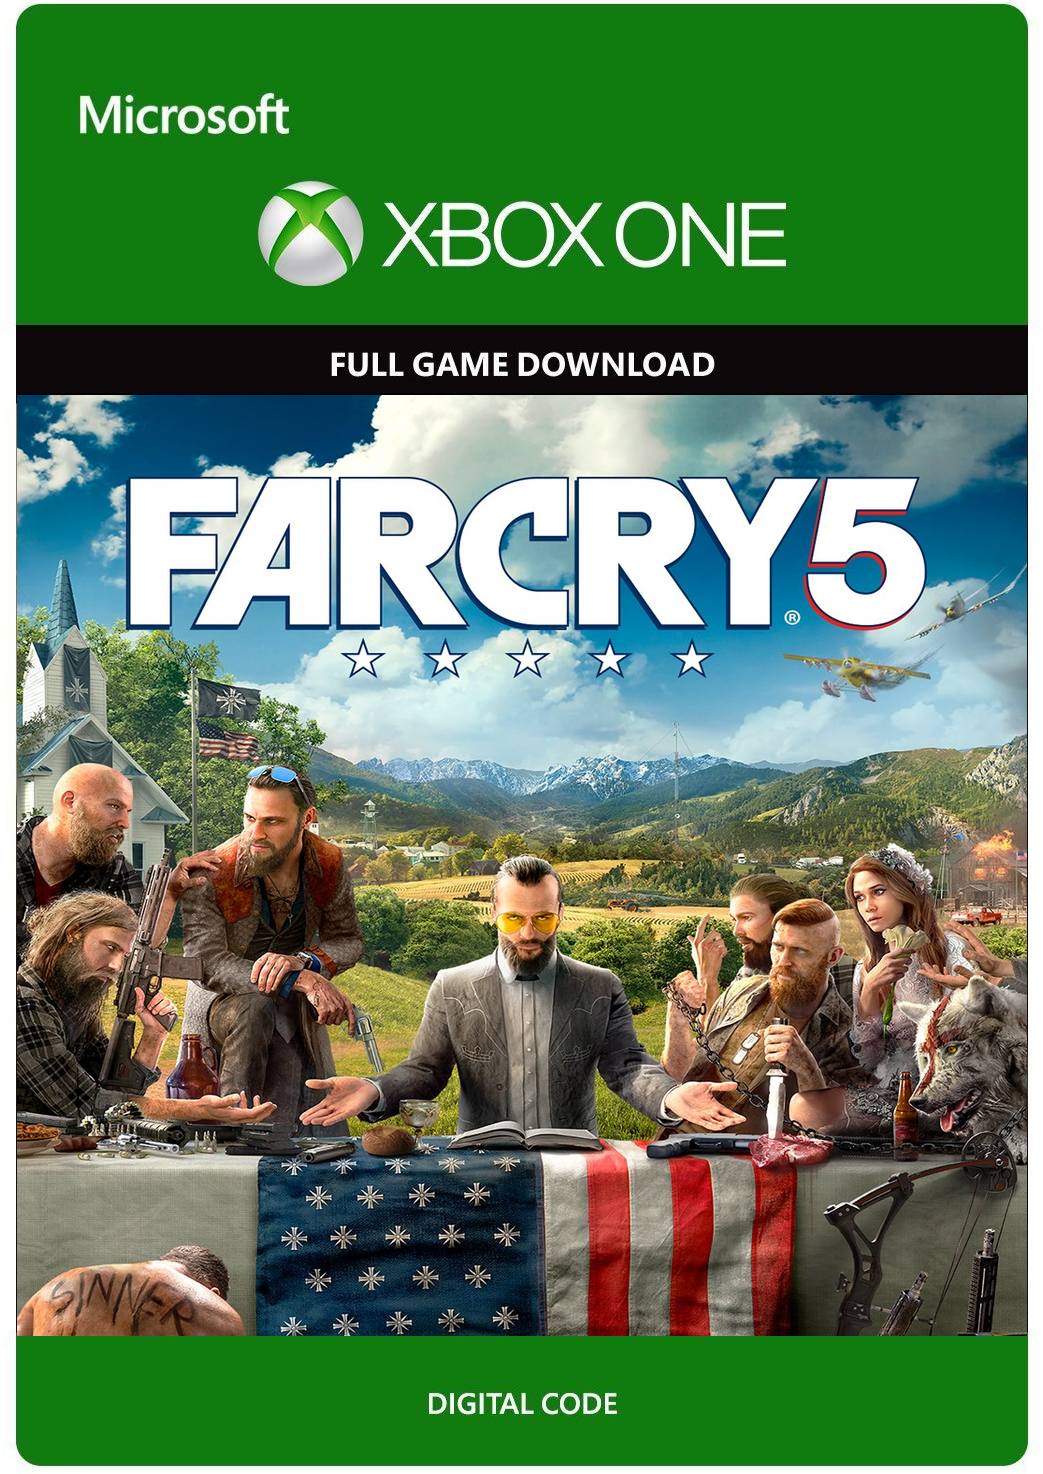
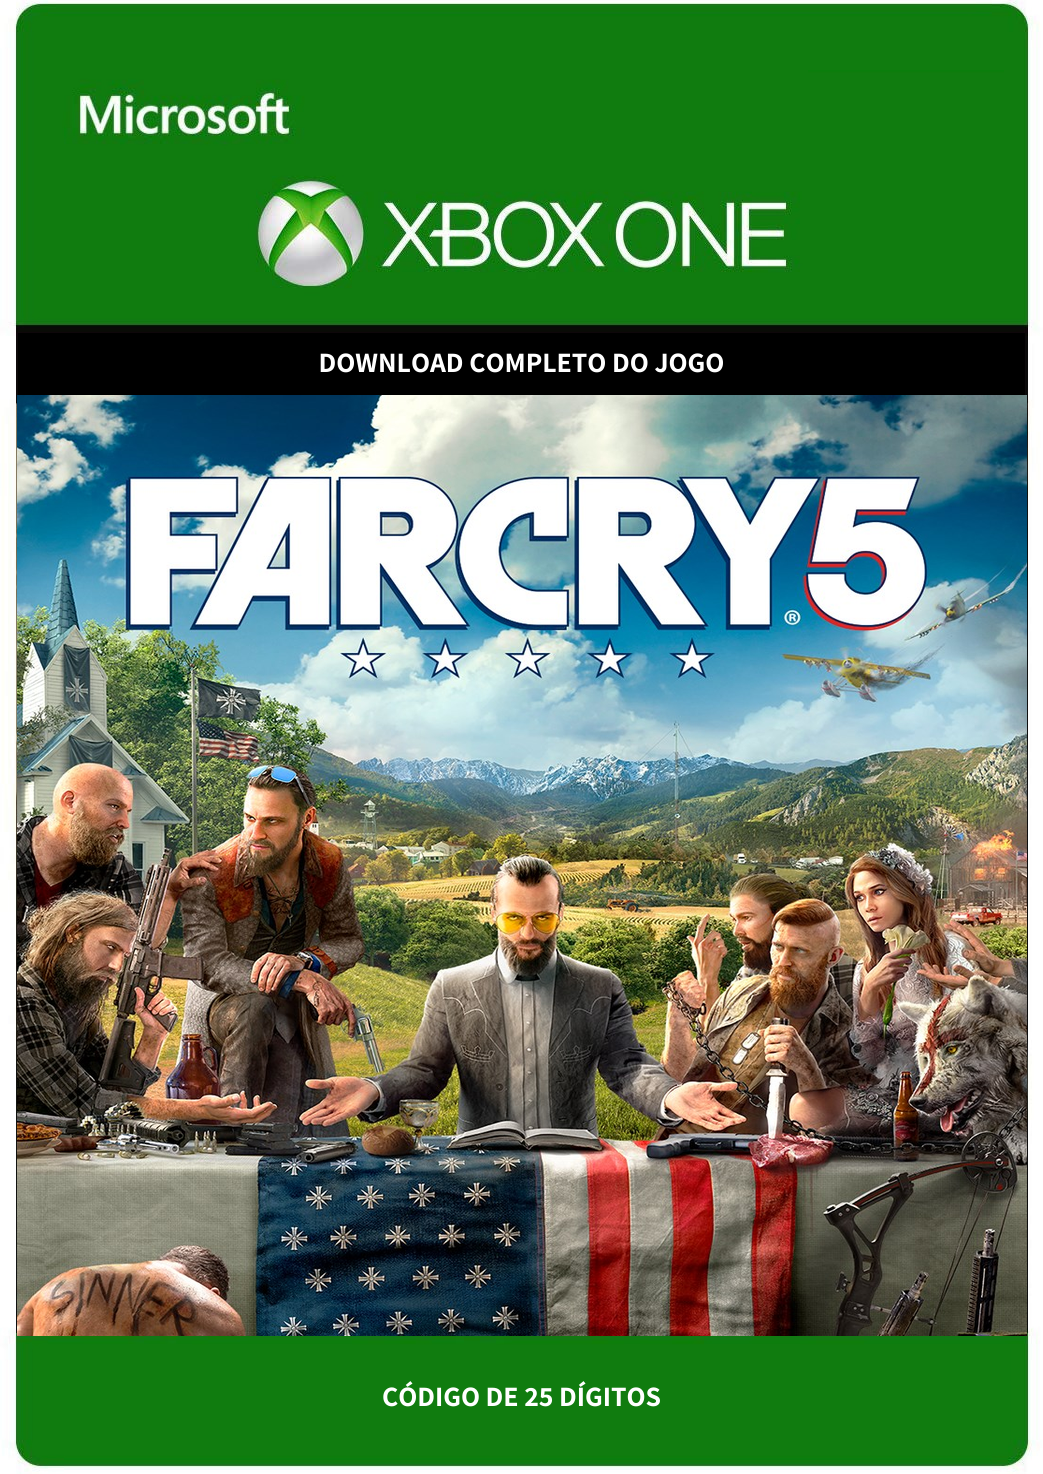
deploy imagem BR7X7MVBBQKM

Changed region(s): [[0.3068, 0.2185, 0.7057, 0.2809], [0.3682, 0.9362, 0.6443, 0.9674]]

diff --git a/description/BR7X7MVBBQKM.html b/description/BR7X7MVBBQKM.html
@@ -1,13 +1,65 @@
 <p style="font-family: 'Poppins', sans-serif; font-size: 1rem; color:gray">
-    Far Cry 5 (Mídia Digital) Xbox One<br>
-    Publicado por :Ubisoft<br>
-    Desenvolvido por :Ubisoft Montreal<br>
-    Data de lançamento :27/03/2018<br>
-    Tamanho aproximado :46,44 GB<br>
-    Classificação etária :Para maiores de 18 anos<br>
-    Categoria :Jogos de tiros<br>
-    <br>
-    Far Cry chega aos Estados Unidos da América no jogo mais recente da franquia premiada.<br>
-    <br>
-    Hope County, Montana, foi tomada por um culto apocalíptico fanático – O Projeto em Eden’s Gate. Após sua chegada, você deve acender os fogos da resistência para liberar a comunidade. Atice as chamas da resistência e lute para livrar Hope County das mãos de um culto mortal. Cuidado com a ira de Joseph Seed e os seguidores do seu culto enquanto você ajuda a resistência no interior da América. Explore Hope County e descubra o interior de Montana, sua vida selvagem e seus habitantes nesse mundo aberto emocionante. Jogue do seu jeito. Construa seu personagem, faça seus próprios aliados e veja como o mundo muda enquanto você progride.<br>
+<iframe width="460" height="215" src="https://www.youtube.com/embed/kd7VJjtoRZI" title="YouTube video player" frameborder="0" allow="accelerometer; autoplay; clipboard-write; encrypted-media; gyroscope; picture-in-picture" allowfullscreen></iframe>
+<br><br>
+INFORMAÇÕES SOBRE O PRODUTO<br>
+===============================================<br>
+<br>
+Far Cry 5 (25 dígitos) Xbox One
+<br>Publicado por : Ubisoft
+<br>Desenvolvido por : Ubisoft Montreal
+<br>Data de lançamento : 27/03/2018
+<br>Classificação etária : Para maiores de 18 anos
+<br>Categoria : Jogos de tiros
+<br>Recursos: Multijogador online  (2-12), Cooperação online  (2), HDR10, 4K Ultra HD, Xbox One X Aprimorado
+
+<br>Far Cry chega aos Estados Unidos da América no jogo mais recente da franquia premiada.
+
+Hope County, Montana, foi tomada por um culto apocalíptico fanático – O Projeto em Eden’s Gate. Apos sua chegada, você deve acender os fogos da resistência para liberar a comunidade. Atice as chamas da resistência e lute para livrar Hope County das mãos de um culto mortal. Cuidado com a ira de Joseph Seed e os seguidores do seu culto enquanto você ajuda a resistência no interior da América. Explore Hope County e descubra o interior de Montana, sua vida selvagem e seus habitantes nesse mundo aberto emocionante. Jogue do seu jeito. Construa seu personagem, faça seus proprios aliados e veja como o mundo muda enquanto você progride.<br>
+<br>
+Fonte: Microsoft<br>
+<br>
+<br>
+INFORMAÇÕES SOBRE O ANÚNCIO<br>
+===============================================<br>
+<br>
+- É um código de 25 dígitos único, exclusivo, nunca utilizado, que vai lhe dá o direito de resgatar o Jogo via Download;<br>
+- Após o resgate você pode instalar/desinstalar/reinstalar/jogar quantas vezes quiser e quando quiser;<br>
+- É um produto digital não é um disco físico, ou seja, não existe envio por correios;<br>
+- Quando finalizar o pagamento entre em contato via whatsapp com informações para confirmação do pagamento e recebimento do código do seu jogo;<br>
+- Após resgatar o Jogo ele fica registrado permanentemente em sua conta, não poderá ser transferido para outra pessoa;<br>
+- É preciso ter uma conta microsoft previamente criada e internet para fazer o resgate e download do Jogo;<br>
+- O Serviço da Xbox Live precisa estar ativo no momento do resgate, consulte antes;<br>
+- Jogos que tem multiplayer online você vai precisar ter assinatura Xbox Live Gold para jogar e isso é vendido separadamente;<br>
+- Jogos que não possuem multiplayer você vai poder jogar conectado ou desconectado da internet, sem se preocupar com banimento;<br>
+- Qualquer dúvida ou dificuldade nós forneceremos TODO o suporte necessário, nós ligamos pra você se você achar necessário;<br>
+<br>
+<br>
+COMO RESGATAR UM CÓDIGO DE 25 DÍGITOS PELO NAVEGADOR<br>
+===============================================<br>
+<br>
+- Acesse o site de resgate de jogos da microsoft logado com a conta microsoft que deseja resgatar o Jogo;<br>
+- Digite o código de 25 dígitos no campo solicitado e clique em AVANÇAR;<br>
+- Será exibido uma imagem do Jogo e clicando em CONFIRMAR o Jogo é resgatado na sua conta;<br>
+<br>
+<br>
+COMO RESGATAR UM CÓDIGO DE 25 DÍGITOS NO VIDEOGAME<br>
+===============================================<br>
+<br>
+- Acesse o videogame usando a conta microsoft que deseja resgatar o Jogo;<br>
+- Vá até STORE e clique no botão USAR UM CÓDIGO;<br>
+- Digite o código de 25 dígitos no campo solicitado e clique em AVANÇAR;<br>
+- Será exibido uma imagem do Jogo e clicando em CONFIRMAR o Jogo é resgatado na sua conta;<br>
+<br>
+<br>
+POLÍTICA DE DEVOLUÇÃO E REEMBOLSO<br>
+===============================================<br>
+<br>
+- Todos os códigos dos produtos que comercializamos são 100% digitais, originais, únicos e exclusivos. Isso nós garantimos pra você!;<br>
+- Nós não temos o poder de inutilizar o código em caso de desistência e qualquer pessoa que tenha ciência do código pode realizar o resgate do jogo;<br>
+- Por estes motivos nós não podemos realizar a devolução e nem reembolso de um produto digital;<br>
+- Antes de realizar a sua compra, nós recomendamos que tenha certeza de que o produto que esta comprando é o que realmente deseja;<br>
+- Recomendamos que antes de comprar consulte o video que disponibilizamos no anúncio, opinião de amigos ou opinião especializada;<br>
+- Realizando o pagamento via pix você concorda com todos os termos aqui descritos.<br>
+<br>
+<br>
 </p>

diff --git a/loja.html b/loja.html
@@ -202,7 +202,7 @@
                             <input type="hidden" id="CODIGO_BR7X7MVBBQKM" value="BR7X7MVBBQKM">
                             <img src="img/produtos/BR7X7MVBBQKM.png" alt="" width="200" height="100">
                             <h5 id="JOGO_BR7X7MVBBQKM">Far Cry 5 - Xbox One</h5>
-                            <h6 id="VALOR_BR7X7MVBBQKM"><span style="color:green">R$ 120,00</span></h6>
+                            <h6 id="VALOR_BR7X7MVBBQKM"><span style="color:green">R$ 239,00</span></h6>
                             <a href="#" id="comprar" class="btn fancy-btn fancy-dark" data-toggle="modal" data-target="#myModal" onclick="confirm(CODIGO_BR7X7MVBBQKM.value,JOGO_BR7X7MVBBQKM.innerText,VALOR_BR7X7MVBBQKM.innerText)">Comprar</a>
                         </center>
                     </div>
